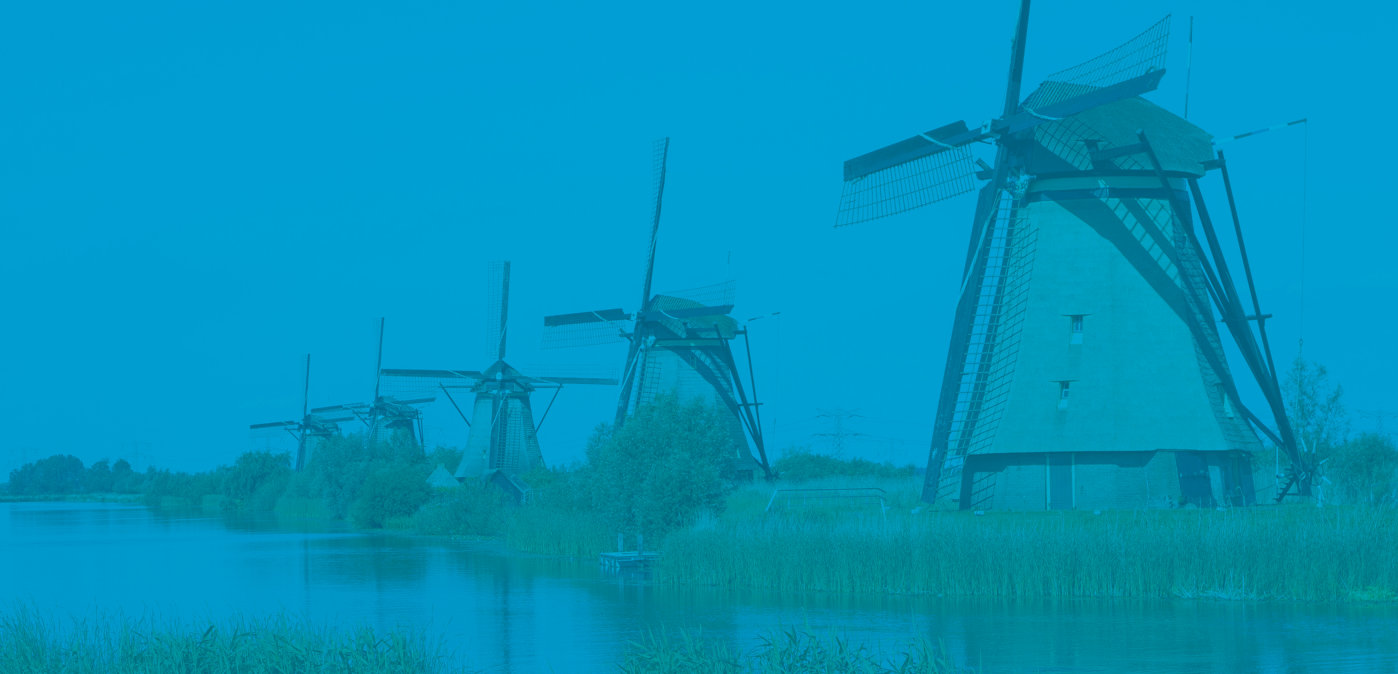
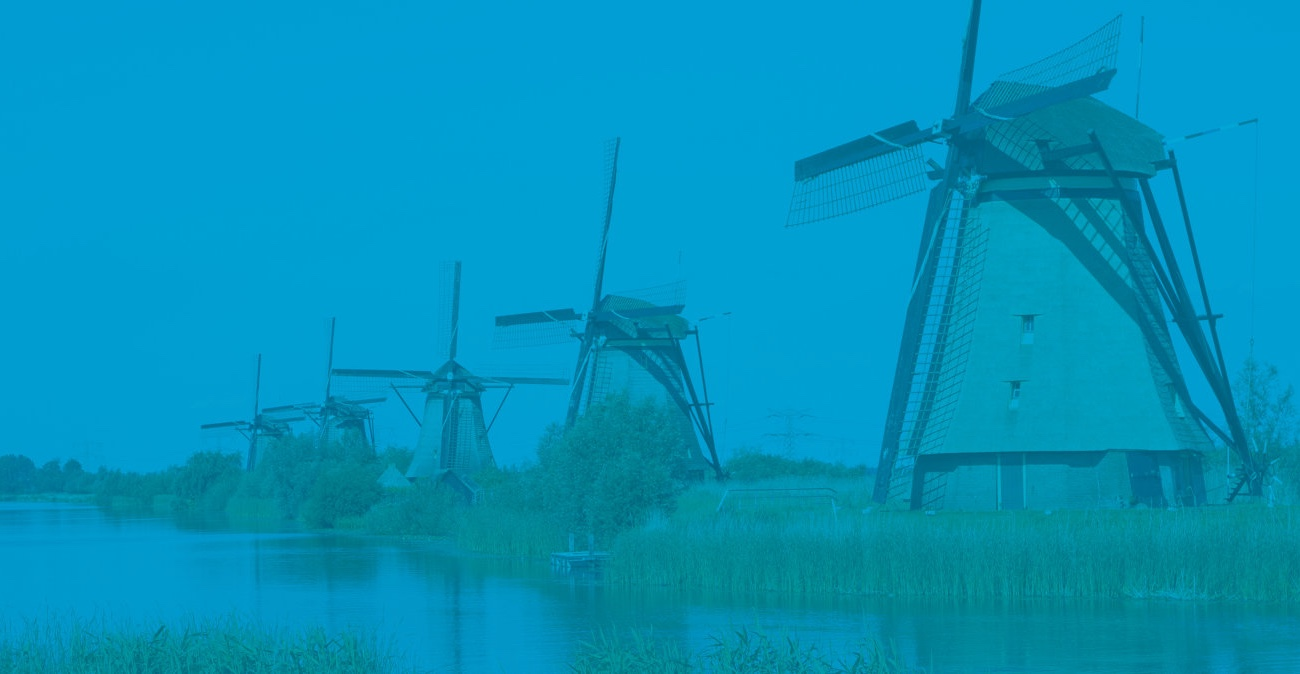
Tweaks home page graphic

diff --git a/assets/scss/_components.scss b/assets/scss/_components.scss
@@ -256,7 +256,7 @@ $header-xlarge-top-margin: rem-calc(209);
 
   @include breakpoint(xlarge) {
     background: #009ed2 url('../images/bg-image-xlarge.jpg') no-repeat center top;
-    background-size: 1490px auto;
+    background-size: 1400px auto;
 
   }
 }
@@ -274,6 +274,7 @@ $header-xlarge-top-margin: rem-calc(209);
   right: rem-calc(10);
   font-size: rem-calc(11);
   font-weight: bold;
+  bottom: rem-calc(5);
 
   @include breakpoint(xlarge) {
     right: rem-calc(0);
@@ -309,15 +310,16 @@ $header-xlarge-top-margin: rem-calc(209);
 
   top: 0;
   bottom: 0;
-  left:0;
+  left: rem-calc(-3);
   right: 0;
   z-index: 10;
 
   background-image: url('../images/abstract-small.svg');
   background-repeat: no-repeat;
-  background-position: center top;
+  background-position: left top;
 
   @include breakpoint(medium) {
+    left: 0;
     background-image: url('../images/abstract-large.svg');
     background-position: center top;
   }
@@ -331,7 +333,7 @@ $header-xlarge-top-margin: rem-calc(209);
 .header--home .contents {
   position: relative;
   z-index: 20;
-  margin-top: rem-calc(20);
+  margin-top: rem-calc(40);
   margin-left: rem-calc(15);
 
   @include breakpoint(small only) {
@@ -340,6 +342,7 @@ $header-xlarge-top-margin: rem-calc(209);
 
   @include breakpoint(medium) {
     margin-left: calc(30%);
+    margin-top: rem-calc(20);
   }
 
   @include breakpoint(large) {
@@ -354,9 +357,19 @@ $header-xlarge-top-margin: rem-calc(209);
 }
 
 .header--home h1 {
-  font-size: rem-calc(48);
   font-weight: bold;
   line-height: 1;
+  font-size: rem-calc(36);
+  margin-bottom: rem-calc(20);
+
+  @include breakpoint(medium) {
+    margin-bottom: rem-calc(40);
+    font-size: rem-calc(48);
+  }
+
+  @include breakpoint(large) {
+    margin-bottom: 0;
+  }
 }
 
 .header--home h2 {
@@ -367,11 +380,16 @@ $header-xlarge-top-margin: rem-calc(209);
 }
 
 .header--home--cta {
-  margin-top: rem-calc(30);
-  margin-bottom: rem-calc(140);
+  margin-top: rem-calc(60);
+  margin-bottom: rem-calc(64);
   font-size: rem-calc(16);
 
   @include breakpoint(medium) {
+    margin-top: rem-calc(45);
+    margin-bottom: rem-calc(50);
+  }
+
+  @include breakpoint(large) {
     margin-top: rem-calc(100);
     margin-bottom: rem-calc(50);
   }

diff --git a/assets/gulpfile.js b/assets/gulpfile.js
@@ -25,7 +25,7 @@ gulp.task('sass', function() {
 gulp.task('compress', function() {
   var files = [
     'bower_components/what-input/what-input.js',
-    'bower_components/foundation-sites/dist/foundation.js',
+    'bower_components/foundation-sites/dist/js/foundation.min.js',
     'js/app.js'
   ];
 
@@ -38,4 +38,5 @@ gulp.task('compress', function() {
 
 gulp.task('default', ['sass', 'compress'], function() {
   gulp.watch(['scss/**/*.scss'], ['sass']);
+  gulp.watch(['js/**/*.js'], ['compress']);
 });

diff --git a/assets/js/app.js b/assets/js/app.js
@@ -1,6 +1,10 @@
-$(document).foundation();
+jQuery(document).foundation();
 
 // Patch for a Bug in v6.3.1
-$(window).on('changed.zf.mediaquery', function() {
-    $('.is-dropdown-submenu.invisible').removeClass('invisible');
+jQuery(window).on('changed.zf.mediaquery', function() {
+    jQuery('.is-dropdown-submenu.invisible').removeClass('invisible');
+});
+
+jQuery(document).ready(function($) {
+
 });

diff --git a/home.php b/home.php
@@ -62,7 +62,7 @@
 
 <div class="row home--intro">
     <div class="small-10 small-offset-1 medium-5 large-5 medium-offset-1 column">
-        <img src="<?= get_template_directory_uri() . '/images/logo.svg' ?>"/>
+        <a href="<?= home_url() ?>"><img src="<?= get_template_directory_uri() . '/images/logo.svg' ?>"/></a>
     </div>
     <div class="small-10 small-offset-1 medium-5 medium-offset-0 large-5 column">
         <p class="home--intro--text">Lorem ipsum dolor sit amet, consectetur adipiscing elit, sed do eiusmod

diff --git a/header.php b/header.php
@@ -54,7 +54,7 @@
             </div>
             <div class="row header show-for-large align-middle">
                 <div class="medium-3 columns">
-                    <a class="clearfix" href="/">
+                    <a class="clearfix" href="<?= home_url(); ?>">
                         <img class="logo" src="<?= get_template_directory_uri() . '/images/logo-white.svg' ?>"/>
                     </a>
                 </div>
